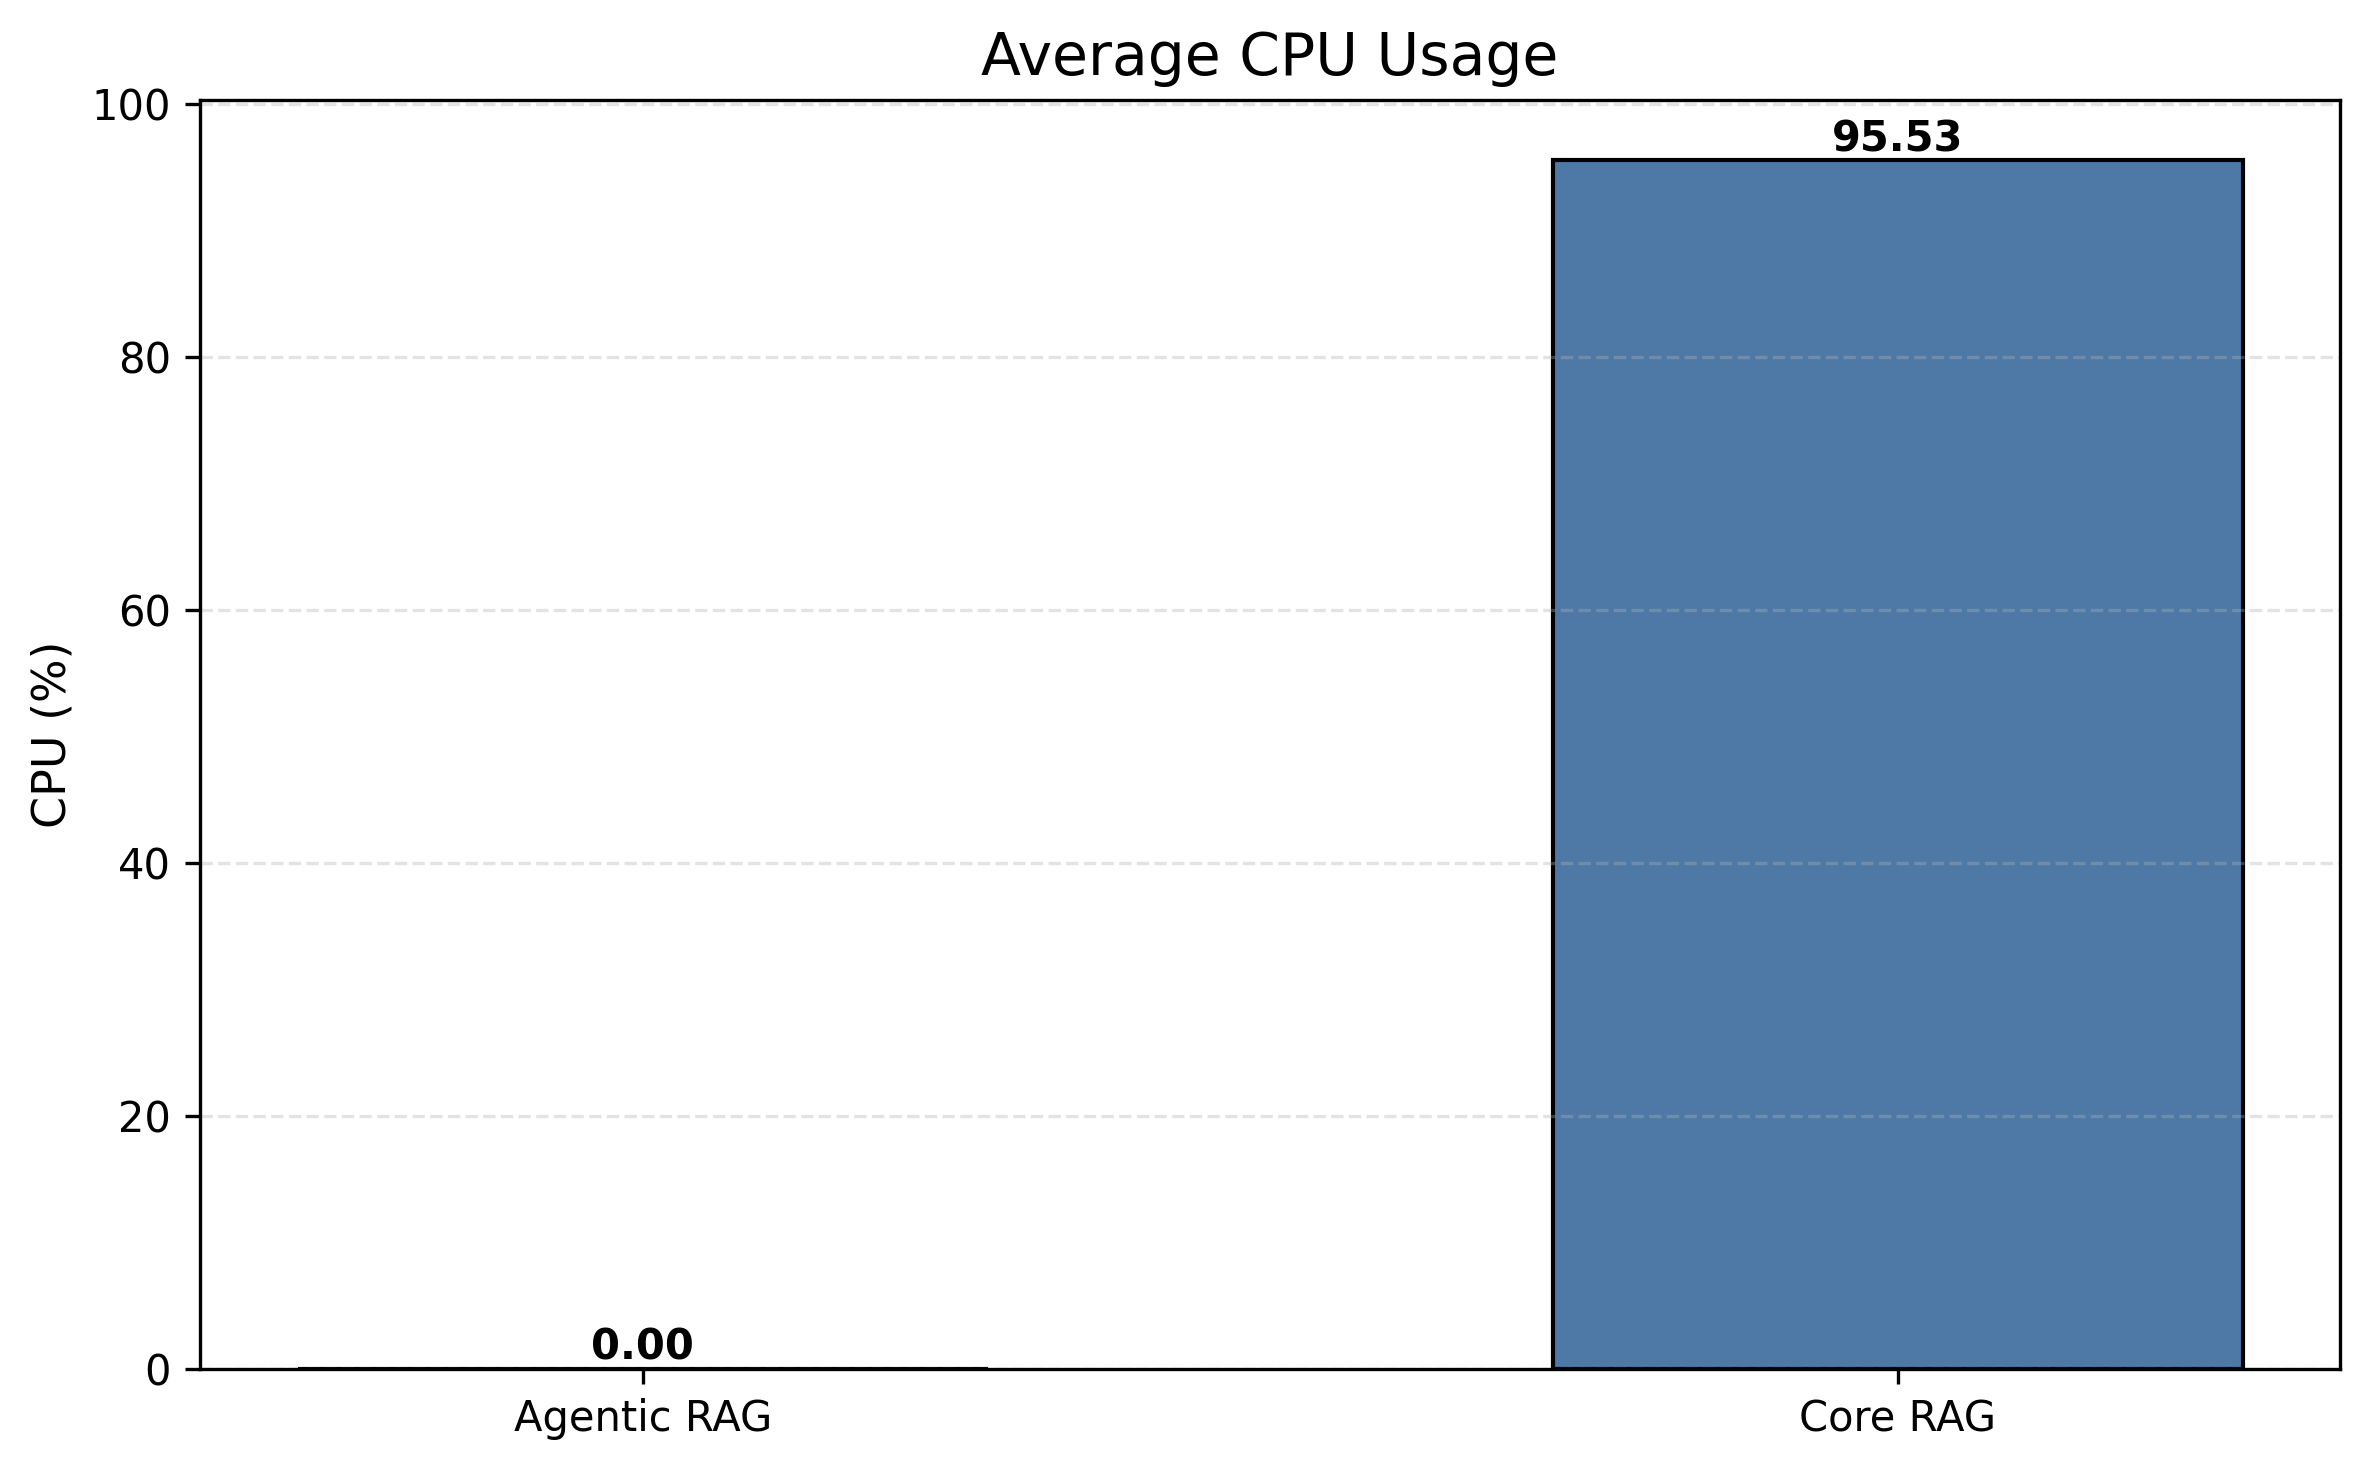
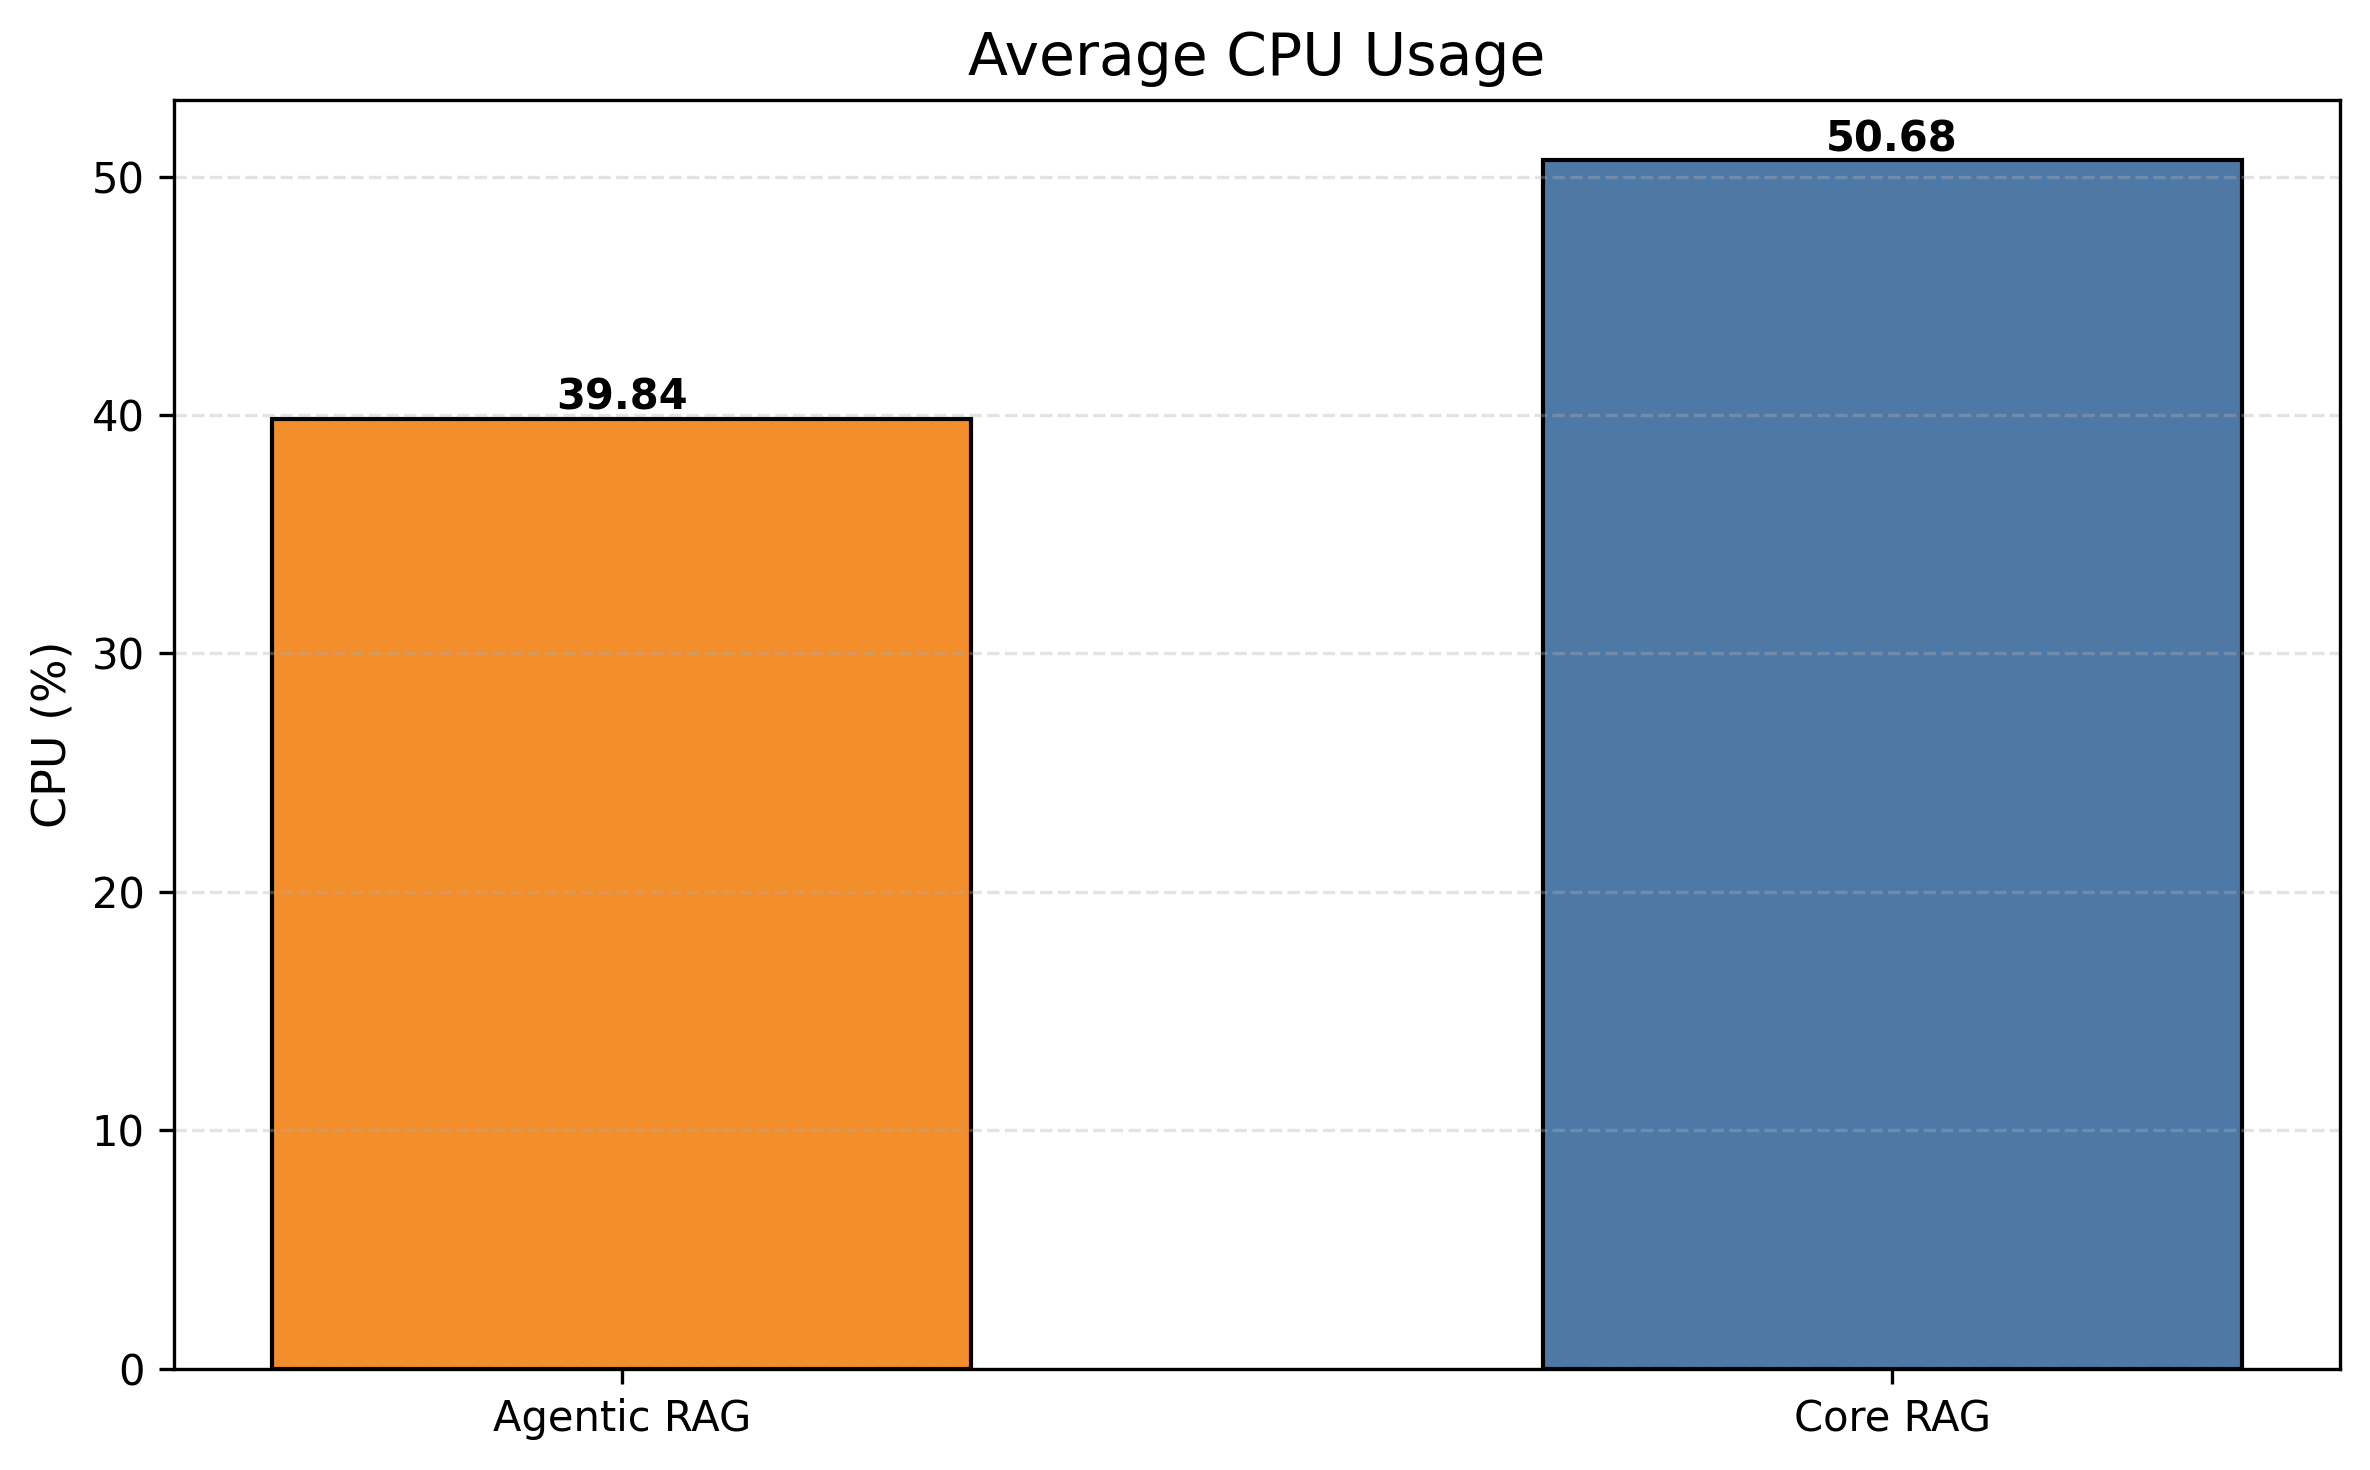
Update evaluation graphs and experiment assets

diff --git a/experiments/batch_runner.py b/experiments/batch_runner.py
@@ -1,0 +1,105 @@
+import os
+import sys
+import time
+import pandas as pd
+
+# -------------------------------------------------
+# Project Path
+# -------------------------------------------------
+
+PROJECT_ROOT = os.path.abspath(
+    os.path.join(
+        os.path.dirname(__file__),
+        ".."
+    )
+)
+
+if PROJECT_ROOT not in sys.path:
+    sys.path.append(PROJECT_ROOT)
+
+# -------------------------------------------------
+# Import Existing Pipelines
+# -------------------------------------------------
+
+from application.ui_service.rag_service import (
+    run_core_rag,
+    run_agentic_rag
+)
+
+# -------------------------------------------------
+# Configuration
+# -------------------------------------------------
+
+QUESTION_FILE = os.path.join(
+    PROJECT_ROOT,
+    "experiments",
+    "questions.csv"
+)
+
+DELAY_SECONDS = 2
+
+# -------------------------------------------------
+# Load Questions
+# -------------------------------------------------
+
+questions = pd.read_csv(QUESTION_FILE)
+
+total = len(questions)
+
+print("=" * 60)
+print("BATCH EXPERIMENT STARTED")
+print("=" * 60)
+
+# -------------------------------------------------
+# CORE RAG
+# -------------------------------------------------
+
+print("\nRunning Core RAG...\n")
+
+for index, row in questions.iterrows():
+
+    question = row["Question"]
+
+    print(f"[CORE] {index+1}/{total}")
+
+    try:
+
+        run_core_rag(question)
+
+        print("✓ Success")
+
+    except Exception as e:
+
+        print(f"✗ Failed : {e}")
+
+    time.sleep(DELAY_SECONDS)
+
+# -------------------------------------------------
+# AGENTIC RAG
+# -------------------------------------------------
+
+print("\nRunning Agentic RAG...\n")
+
+for index, row in questions.iterrows():
+
+    question = row["Question"]
+
+    print(f"[AGENTIC] {index+1}/{total}")
+
+    try:
+
+        run_agentic_rag(question)
+
+        print("✓ Success")
+
+    except Exception as e:
+
+        print(f"✗ Failed : {e}")
+
+    time.sleep(DELAY_SECONDS)
+
+print("\n")
+print("=" * 60)
+print("ALL EXPERIMENTS COMPLETED")
+print("=" * 60)
+print("Experiment log updated successfully.")
